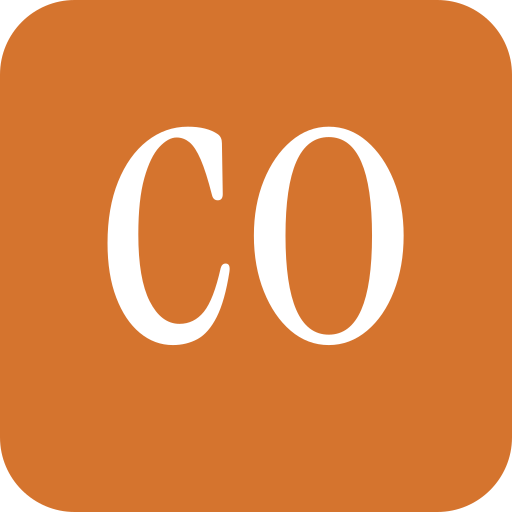
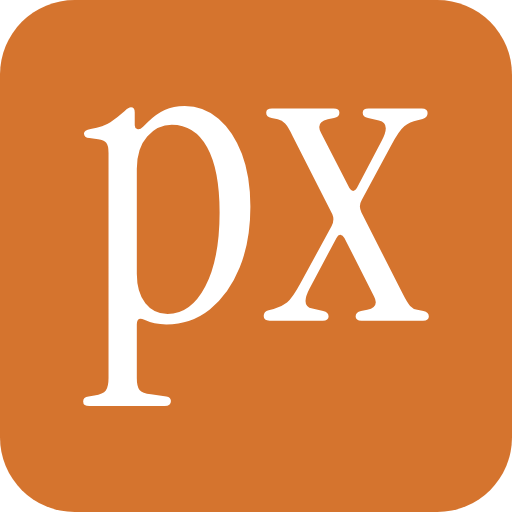
chore(local): redraw brand mark "co" -> "px" and the project-x wordmark
- web: CoMark -> PxMark (sidebar, mobile nav, assistant console)
- icon.svg / bimi-logo.svg: "px" outlined from the bundled Instrument
  Serif at the original mark's scale, centred for the p's descender
- docs/wordmark-{dark,light}.svg: mark + "project-x" text, canvas resized
- docs/logo.png and the four plugin-directory icons re-rendered from it

Changed region(s): [[0.1562, 0.1875, 0.8438, 0.8125], [0.1875, 0.4688, 0.2188, 0.5]]

diff --git a/web/src/components/assistant-console.tsx b/web/src/components/assistant-console.tsx
@@ -6,7 +6,7 @@ import Link from "next/link";
 import ReactMarkdown from "react-markdown";
 import remarkGfm from "remark-gfm";
 import { Send, X, Loader2, Settings, RotateCcw, ArrowUpRight, Sparkles } from "lucide-react";
-import { CoMark } from "@/components/co-mark";
+import { PxMark } from "@/components/px-mark";
 import { useJobs } from "@/components/jobs/job-store";
 import { usePipeline } from "@/components/pipeline/pipeline-provider";
 import { useApply } from "@/components/apply/apply-provider";
@@ -484,7 +484,7 @@ export function AssistantConsole() {
           className="fixed bottom-5 right-5 z-50 flex items-center justify-center gap-2 rounded-full border border-border bg-surface/90 py-1.5 pl-1.5 pr-4 shadow-lg backdrop-blur transition-colors hover:bg-surface-hover max-sm:min-h-[44px]"
           aria-label="Open assistant"
         >
-          <CoMark size={26} />
+          <PxMark size={26} />
           <span className="text-sm font-medium">Ask</span>
         </button>
       )}
@@ -492,7 +492,7 @@ export function AssistantConsole() {
       {open && (
         <div className="fixed bottom-5 right-5 z-50 flex h-[600px] max-h-[80vh] w-[400px] max-w-[calc(100vw-2.5rem)] flex-col overflow-hidden rounded-2xl border border-border bg-surface shadow-2xl">
           <header className="flex items-center gap-2.5 border-b border-border px-4 py-3">
-            <CoMark size={26} />
+            <PxMark size={26} />
             <div className="flex-1">
               <div className="text-sm font-semibold tracking-tight">Assistant</div>
               <div className="text-xs text-faint">{cliId ? `via ${cliId}` : "no CLI configured"}</div>

diff --git a/web/src/components/app-shell.tsx b/web/src/components/app-shell.tsx
@@ -3,7 +3,7 @@
 import Link from "next/link";
 import { usePathname } from "next/navigation";
 import { cn } from "@/lib/cn";
-import { CoMark } from "@/components/co-mark";
+import { PxMark } from "@/components/px-mark";
 import { AssistantConsole } from "@/components/assistant-console";
 import { MobileNav } from "@/components/mobile-nav";
 import { ThemeToggle } from "@/components/theme-toggle";
@@ -30,7 +30,7 @@ export function AppShell({ children }: { children: React.ReactNode }) {
       <div className="flex min-h-screen">
         <aside className="sticky top-0 hidden h-screen w-60 shrink-0 flex-col overflow-y-auto border-r border-border bg-surface/30 p-4 md:flex">
           <Link href="/" className="mb-8 flex items-center gap-2.5 px-1">
-            <CoMark size={32} />
+            <PxMark size={32} />
             <span className={`${instrumentSerif.className} relative -top-px text-2xl font-normal tracking-tight text-landing`}>
               project-x
             </span>

diff --git a/web/src/components/mobile-nav.tsx b/web/src/components/mobile-nav.tsx
@@ -5,7 +5,7 @@ import Link from "next/link";
 import { usePathname } from "next/navigation";
 import { Menu, X } from "lucide-react";
 import { cn } from "@/lib/cn";
-import { CoMark } from "@/components/co-mark";
+import { PxMark } from "@/components/px-mark";
 import { ThemeToggle } from "@/components/theme-toggle";
 import { WorkerPills } from "@/components/jobs/worker-pills";
 import { UsageMeter } from "@/components/usage-meter";
@@ -106,7 +106,7 @@ export function MobileNav() {
 
       <header className="co-mnav flex items-center gap-2 border-b border-border px-4 pb-3 md:hidden">
         <Link href="/" className="flex min-h-[44px] items-center gap-2" aria-label="project-x home">
-          <CoMark size={26} />
+          <PxMark size={26} />
           <span className={`${instrumentSerif.className} relative -top-px text-xl text-landing`}>project-x</span>
         </Link>
         <div className="ml-auto flex items-center gap-0.5">

diff --git a/web/src/components/px-mark.tsx b/web/src/components/px-mark.tsx
@@ -1,10 +1,8 @@
 import { instrumentSerif } from "@/lib/fonts";
 
-// Brand mark — lowercase "co" on brand orange in Instrument Serif. Matches the
-// favicon (src/app/icon.tsx) and the project-x-docs home one-for-one so the
-// app reads as a sibling. Dual meaning: "co" of project-x AND "co" of
-// companies — the word the manifesto inverts ("…AI to choose companies").
-export function CoMark({ size = 28 }: { size?: number }) {
+// Brand mark — lowercase "px" (project-x) on brand orange in Instrument Serif.
+// Matches the favicon (src/app/icon.svg) and the docs wordmark one-for-one.
+export function PxMark({ size = 28 }: { size?: number }) {
   return (
     <span
       aria-hidden="true"
@@ -18,7 +16,7 @@ export function CoMark({ size = 28 }: { size?: number }) {
         paddingBottom: Math.round(size * 0.08),
       }}
     >
-      co
+      px
     </span>
   );
 }

diff --git a/README.md b/README.md
@@ -1,4 +1,4 @@
-<p align="center"><picture><source media="(prefers-color-scheme: dark)" srcset="docs/wordmark-dark.svg"><img src="docs/wordmark-light.svg" alt="project-x" width="250" height="56"></picture></p>
+<p align="center"><picture><source media="(prefers-color-scheme: dark)" srcset="docs/wordmark-dark.svg"><img src="docs/wordmark-light.svg" alt="project-x" width="231" height="56"></picture></p>
 
 <p align="center">The open-source AI job search agent.</p>
 
